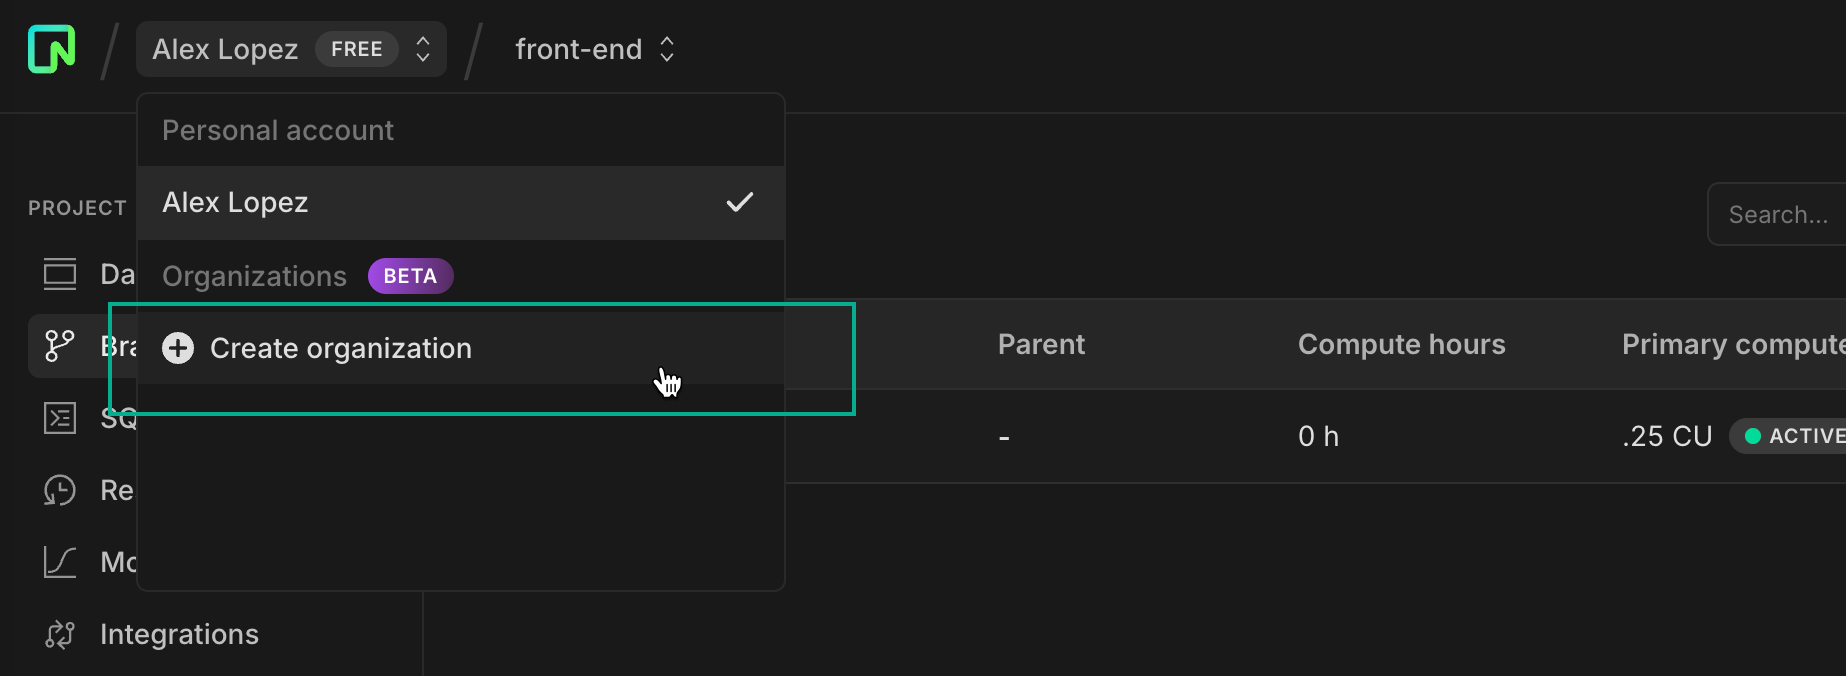
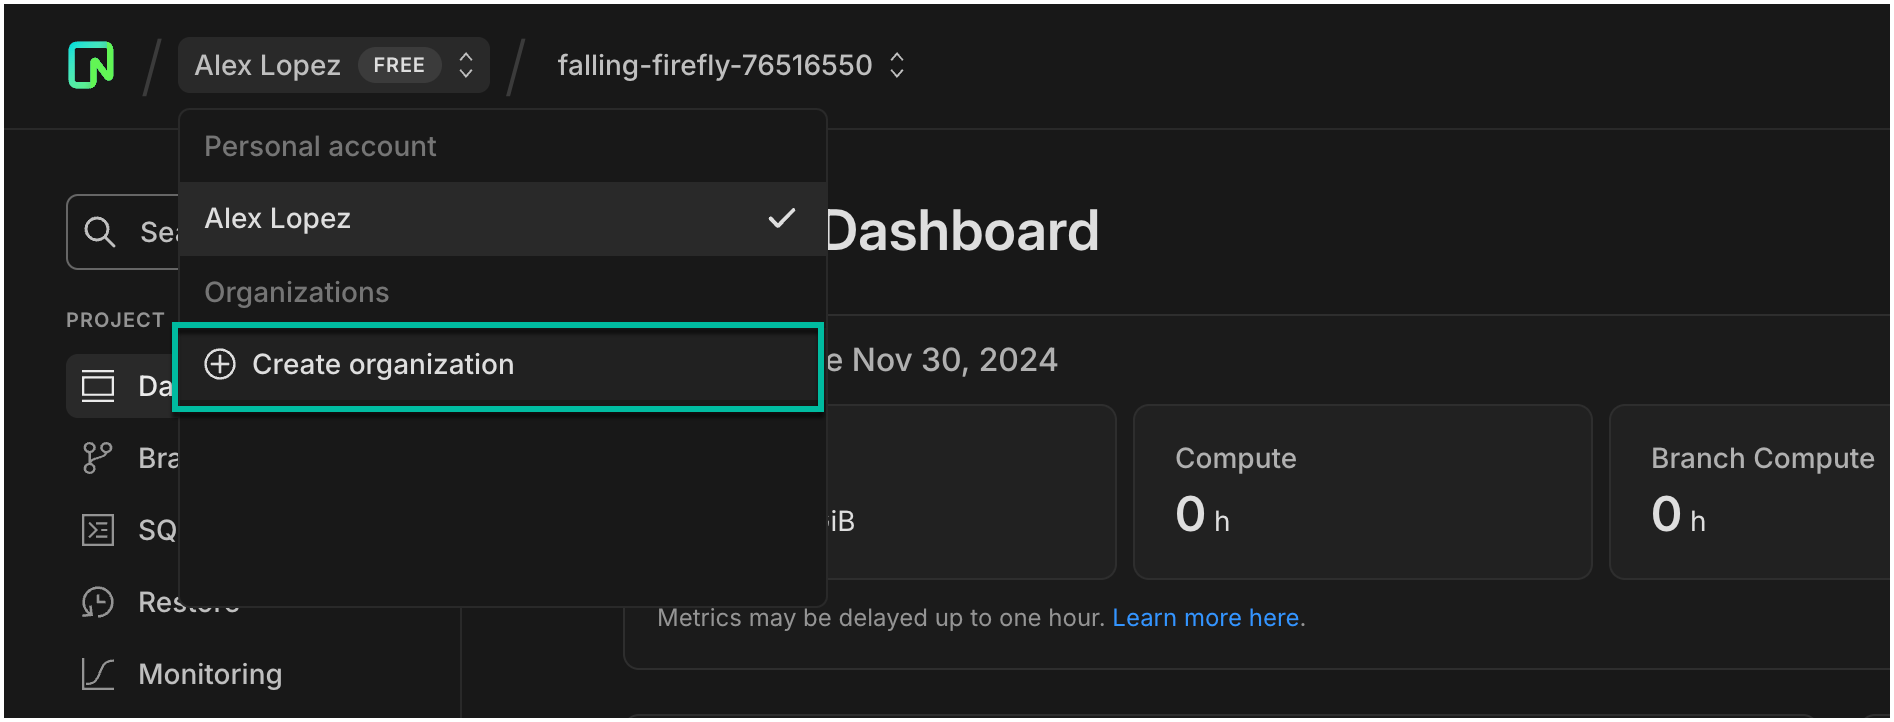
docs: update org images

diff --git a/content/docs/manage/organizations.md b/content/docs/manage/organizations.md
@@ -53,7 +53,7 @@ If you're on the Free Plan, you'll need to choose a paid plan for your organizat
     You'll be prompted to select a plan and enter billing details. After confirming, you'll be directed to your organization's billing page, where you can invite [members](/docs/manage/orgs-manage#invite-members) and [transfer projects](/docs/manage/orgs-project-transfer).
   </div>
   <div style={{ flex: '0 0 55%', marginTop: '-20px' }}>
-  ![convert personal account to an organization](/docs/manage/orgs_create_with_transfer.png)
+  ![convert personal account to an organization](/docs/manage/orgs_create_with_billing.png)
   </div>
 </div>
 
